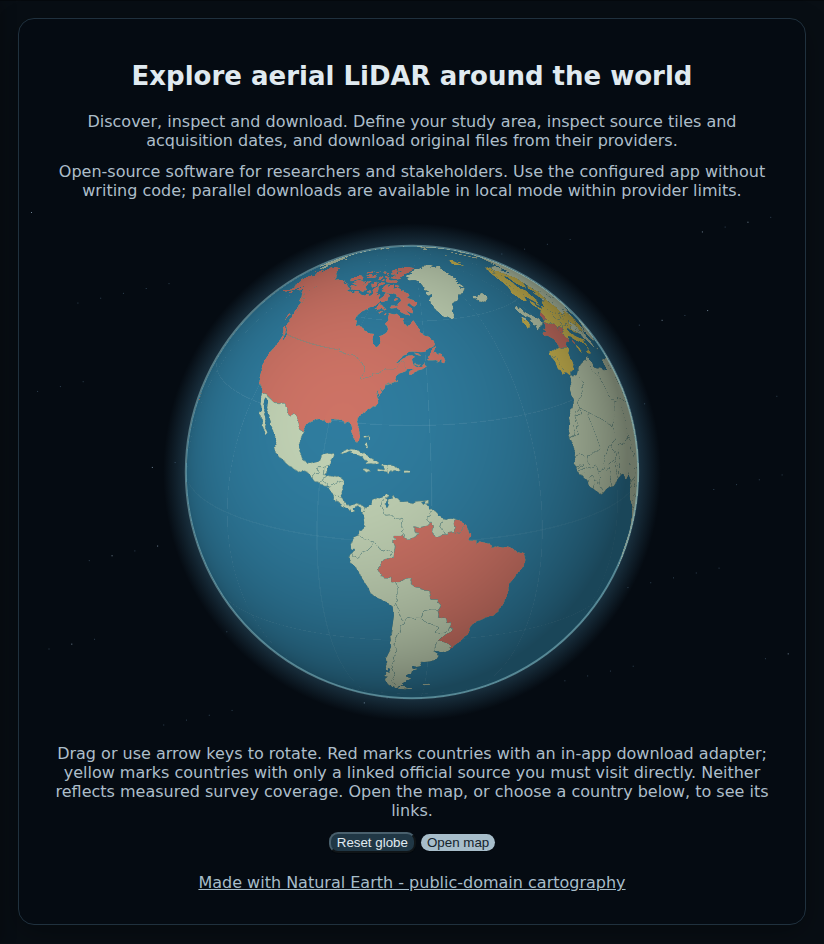
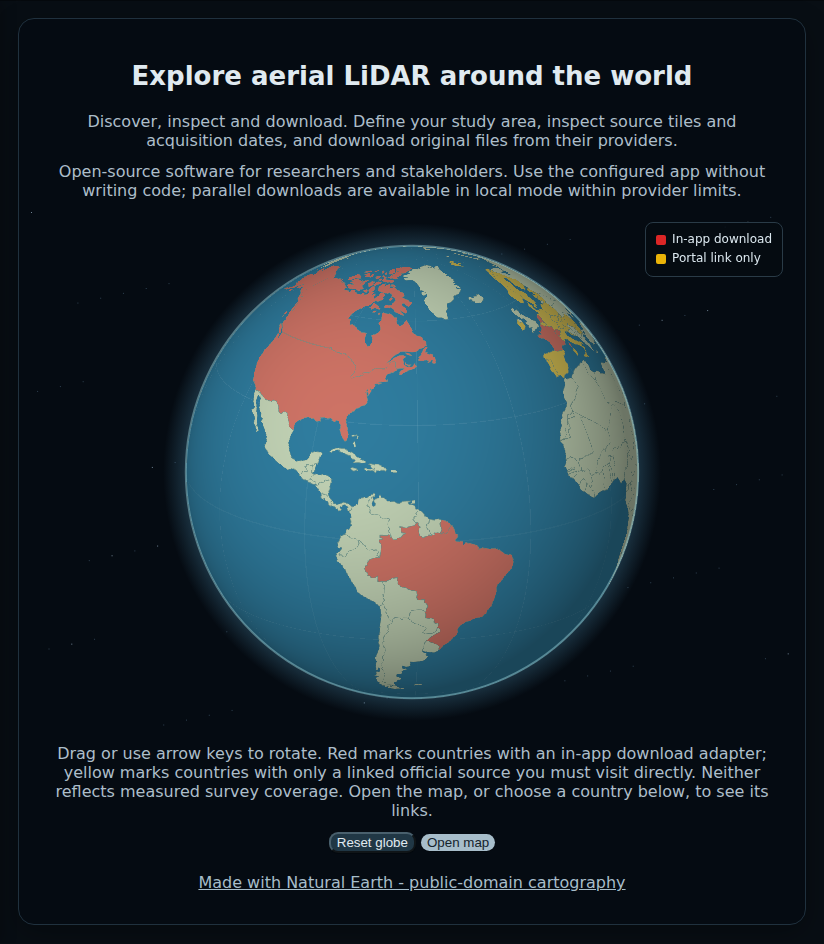
Auto-rotate the globe and add a red/yellow legend in its corner
The globe previously sat still until dragged, and explained its red/
yellow colour meaning only in a paragraph below it. Add a slow ambient
auto-rotation (0.12 deg per redraw, throttled to ~16 fps since the
per-pixel software projection in draw() is too costly to re-run at a
full 60 fps) that stops the instant the user drags or presses an arrow
key, and resumes on "Reset globe". Add a small legend overlay
(top-right, red/yellow swatches) directly on the globe, in a new
.als-globe-wrap positioning container, alongside the existing paragraph
explanation.

Regenerated docs/images/interface-globe.png against the real updated
code (headless Chromium, same harness as before); confirmed the
auto-rotation actually redraws over time via a scanline pixel-sum probe
before taking the screenshot.

Changed region(s): [[0.3034, 0.2765, 0.7888, 0.7373], [0.7888, 0.2458, 0.9405, 0.2765], [0.3337, 0.3072, 0.3641, 0.3686]]

diff --git a/inst/app/www/globe.js b/inst/app/www/globe.js
@@ -11,7 +11,7 @@ document.addEventListener('DOMContentLoaded', async () => {
   for(let y=H/6;y<H;y+=H/6){t.moveTo(0,y);t.lineTo(W,y);}t.stroke();
   const countries=new Set(canvas.dataset.countries.split(',').map(Number));
   const implemented=new Set((canvas.dataset.implemented||'').split(',').filter(Boolean).map(Number));
-  let pixels,lon=-65,lat=18,drag=null,pending=false;
+  let pixels,lon=-65,lat=18,drag=null,pending=false,autorotate=true;
   function ring(coords,shift){
     let prev=coords[0][0];const points=coords.map(([raw,y])=>{let x=raw;while(x-prev>180)x-=360;while(x-prev< -180)x+=360;prev=x;return [x,y];});
     const first=points[0],last=points[points.length-1];
@@ -29,7 +29,12 @@ document.addEventListener('DOMContentLoaded', async () => {
         t.strokeStyle='#6c958b';t.lineWidth=.65;t.stroke();}
     }
     pixels=t.getImageData(0,0,W,H).data;canvas.dataset.ready='true';draw();
+    requestAnimationFrame(spin);
   }catch(e){document.getElementById('globe_status').textContent='Globe unavailable. Open the map to continue.';}
+  // Throttled to ~16 fps: the per-pixel software projection in draw() is too
+  // costly to re-run at a full 60 fps just for a slow ambient spin.
+  let lastSpin=0;
+  function spin(ts){if(autorotate&&ts-lastSpin>60){lon+=.12;lastSpin=ts;draw();}requestAnimationFrame(spin);}
   function draw(){
     if(!pixels||!canvas.clientWidth)return;
     const w=Math.min(900,Math.round(canvas.clientWidth)),h=canvas.clientHeight;
@@ -48,11 +53,11 @@ document.addEventListener('DOMContentLoaded', async () => {
     ctx.putImageData(img,0,0);ctx.beginPath();ctx.arc(cx,cy,r,0,Math.PI*2);ctx.strokeStyle='#93cbd37f';ctx.lineWidth=2;ctx.stroke();
   }
   function redraw(){if(pending)return;pending=true;requestAnimationFrame(()=>{pending=false;draw();});}
-  canvas.onpointerdown=e=>{drag=[e.clientX,e.clientY];canvas.setPointerCapture(e.pointerId);canvas.focus();};
+  canvas.onpointerdown=e=>{autorotate=false;drag=[e.clientX,e.clientY];canvas.setPointerCapture(e.pointerId);canvas.focus();};
   canvas.onpointermove=e=>{if(!drag)return;lon-=(e.clientX-drag[0])*.35;lat=Math.max(-75,Math.min(75,lat+(e.clientY-drag[1])*.25));drag=[e.clientX,e.clientY];redraw();};
   canvas.onpointerup=canvas.onpointercancel=()=>drag=null;
-  function reset(){lon=-65;lat=18;redraw();}
+  function reset(){lon=-65;lat=18;autorotate=true;redraw();}
   document.getElementById('globe_reset').onclick=reset;
-  canvas.onkeydown=e=>{if(e.key==='0'){e.preventDefault();reset();return;}if(!e.key.startsWith('Arrow'))return;e.preventDefault();lon+=e.key==='ArrowLeft'?-10:e.key==='ArrowRight'?10:0;lat=Math.max(-75,Math.min(75,lat+(e.key==='ArrowUp'?10:e.key==='ArrowDown'?-10:0)));redraw();};
+  canvas.onkeydown=e=>{if(e.key==='0'){e.preventDefault();reset();return;}if(!e.key.startsWith('Arrow'))return;e.preventDefault();autorotate=false;lon+=e.key==='ArrowLeft'?-10:e.key==='ArrowRight'?10:0;lat=Math.max(-75,Math.min(75,lat+(e.key==='ArrowUp'?10:e.key==='ArrowDown'?-10:0)));redraw();};
   new ResizeObserver(redraw).observe(canvas);
 });

diff --git a/inst/app/www/explorer.css b/inst/app/www/explorer.css
@@ -4,7 +4,7 @@
 .als-header-actions{display:flex;align-items:center;gap:16px;flex-wrap:wrap}.als-header-actions .btn{margin:0}.modal-content{background:#111c26;color:#e0eaf0}.modal-header,.modal-footer{border-color:#415362}.modal-body pre{white-space:pre-wrap;overflow-wrap:anywhere;background:#1b2b38;color:#e0eaf0;border-color:#415362}.modal-body .help-block{font-size:13px}.modal-body .btn{white-space:normal}
 .als-tile-preview{margin-top:20px;padding-top:8px;border-top:1px solid #415362}.als-point-cloud{display:block;width:100%;height:460px;background:radial-gradient(ellipse,#162531,#080e14);touch-action:none;cursor:grab}.als-point-cloud:focus{outline:2px solid #a7bdca}.als-tile-preview .row{margin-top:16px}#tile_preview_status{padding:10px 0;overflow-wrap:anywhere}@media(max-width:850px){.als-point-cloud{height:320px}}
 #tile_selection{overflow-wrap:anywhere}
-.als-globe-intro{text-align:center;padding:20px 12px;background:#050b12;border:1px solid #20313e;border-radius:16px}.als-globe-intro h2{font-size:26px}.als-globe-intro p{max-width:720px;margin:12px auto;color:#adbeca}#als-globe{display:block;width:100%;max-width:900px;height:520px;margin:auto;touch-action:none;cursor:grab}#als-globe:focus{outline:1px solid #a7bdca}@media(max-width:850px){#als-globe{height:340px}.als-globe-intro h2{font-size:21px}}
+.als-globe-intro{text-align:center;padding:20px 12px;background:#050b12;border:1px solid #20313e;border-radius:16px}.als-globe-intro h2{font-size:26px}.als-globe-intro p{max-width:720px;margin:12px auto;color:#adbeca}.als-globe-wrap{position:relative;width:100%;max-width:900px;margin:auto}#als-globe{display:block;width:100%;height:520px;touch-action:none;cursor:grab}#als-globe:focus{outline:1px solid #a7bdca}.als-globe-legend{position:absolute;top:10px;right:10px;background:rgba(5,11,18,.8);border:1px solid #2a3b47;border-radius:8px;padding:7px 10px;font-size:12px;line-height:1.6;color:#dbe7ee;text-align:left;pointer-events:none}.als-globe-legend-row{display:flex;align-items:center;gap:6px;white-space:nowrap}.als-globe-swatch{width:10px;height:10px;border-radius:2px;flex:none}.als-globe-swatch-red{background:#dc2626}.als-globe-swatch-yellow{background:#eab308}@media(max-width:850px){#als-globe{height:340px}.als-globe-intro h2{font-size:21px}.als-globe-legend{font-size:10.5px;padding:5px 8px}}
 .als-main{overflow-x:clip}
 #compare_status,#compare_gate,#difference_summary{padding:10px 0;overflow-wrap:anywhere}#compare_metadata{white-space:pre-wrap;overflow-wrap:anywhere;background:#14232e;color:#e0eaf0}.selectize-input{overflow-wrap:anywhere}
 

diff --git a/NEWS.md b/NEWS.md
@@ -24,3 +24,4 @@
 * Enlarge the profile chart's point markers (2x2 to 3x3 px, higher opacity) so the drawn-segment side view reads clearly as a point-cloud cross-section rather than faint scattered dots; no change to what is plotted (still raw sampled points, no fitted curves or calculated differences).
 * Colour search-result tile footprints on the map by acquisition year (viridis, grey where the provider reports no date) with an automatic Leaflet legend, instead of one flat colour, so overlapping surveys from different years are distinguishable at a glance.
 * Add `als_report()` and a "Download session report" button: a self-contained HTML summary (study area, tile count, known size, a per-provider breakdown and every tile's citation/licence) generated from an R Markdown template (`inst/report/session-report.Rmd`), guarded by `requireNamespace("rmarkdown")`. PDF is available by calling `als_report(..., format = "pdf")` directly in R when `tinytex` is installed; the in-app button always produces HTML so the interactive workflow never depends on a LaTeX installation. Content is limited to data the app already has (nothing inferred, estimated or fetched), and the report is written locally only.
+* The welcome globe now rotates on its own (throttled to ~16 fps; stops the instant a user drags or presses an arrow key, and resumes on **Reset globe**), and shows a small red/yellow legend in its top-right corner instead of relying on the paragraph below it alone.

diff --git a/README.md b/README.md
@@ -32,10 +32,11 @@ The [complete source table](inst/sources/SOURCES.md) records the current catalog
 
 | Control | Purpose |
 |---|---|
-| W1 - Globe | Rotate to explore countries represented in the active catalog. |
-| W2 - Red shading | Country has an in-app search-and-download adapter. Not complete national survey coverage. |
-| W3 - Yellow shading | Country has only a linked official source; download from the provider's own portal. |
-| W4 - Open map | Open the map to draw or upload an area of interest. |
+| W1 - Globe | Rotates on its own; drag or use arrow keys to take over, or click **Reset globe** to return to the start view and resume auto-rotation. |
+| W2 - Legend | Top-right key: red for an in-app search-and-download adapter, yellow for a linked official source only. |
+| W3 - Red shading | Country has an in-app search-and-download adapter. Not complete national survey coverage. |
+| W4 - Yellow shading | Country has only a linked official source; download from the provider's own portal. |
+| W5 - Open map | Open the map to draw or upload an area of interest. |
 
 ## 2. Search, download and plot
 
